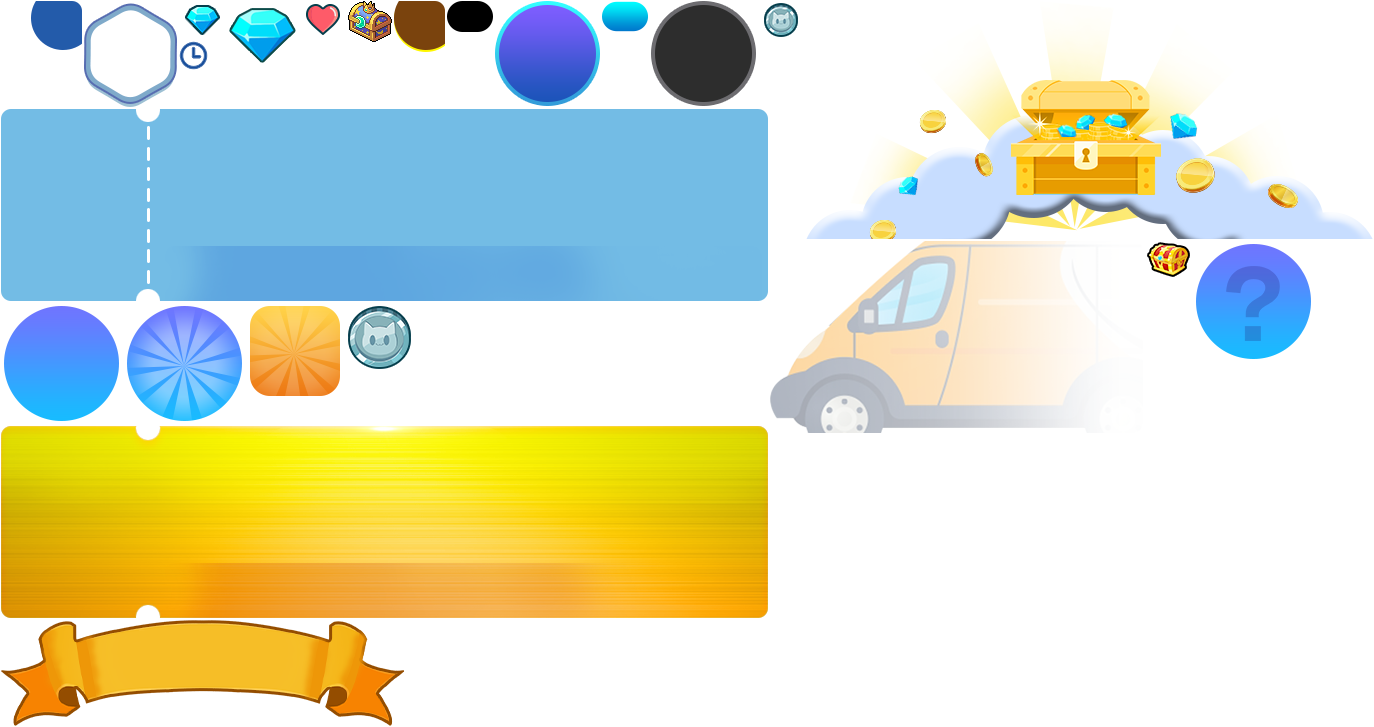
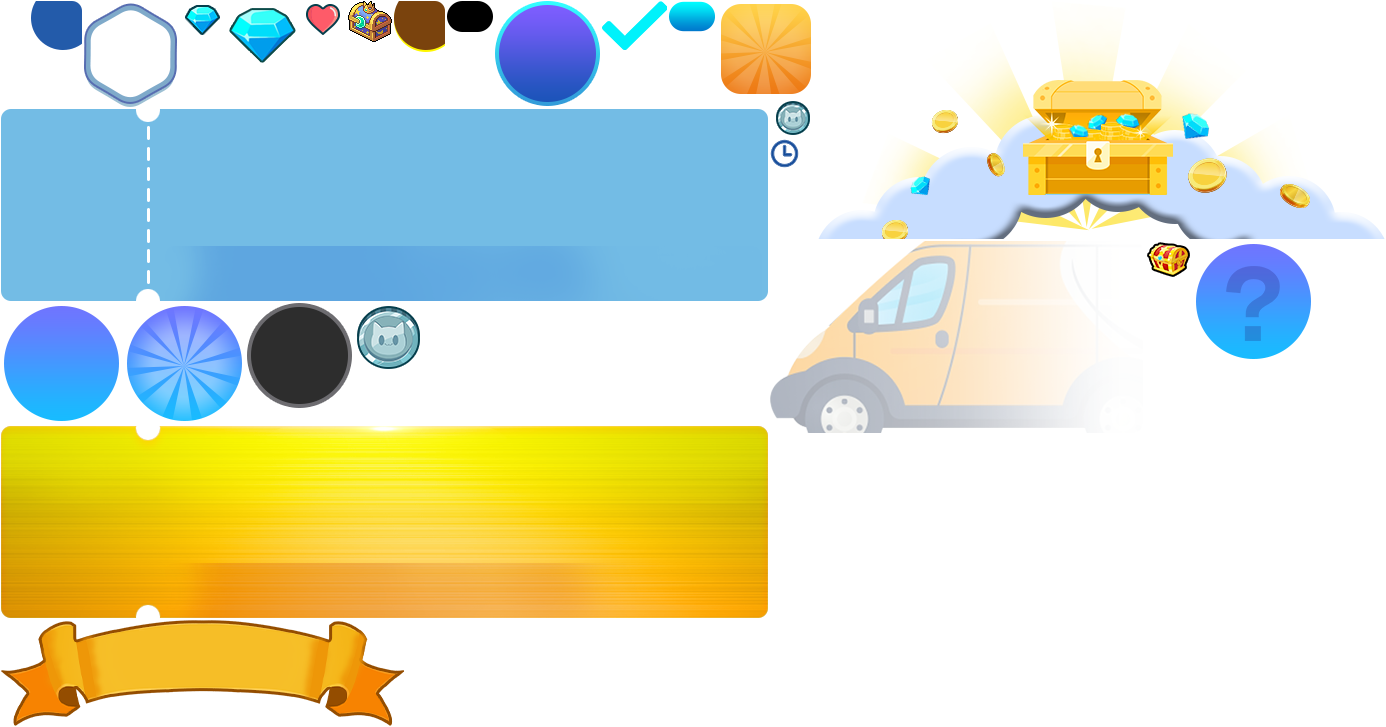
订单

diff --git a/src/ui/PicOrder/PicOrderPanel.ts b/src/ui/PicOrder/PicOrderPanel.ts
@@ -772,6 +772,8 @@ class OrderProgressItem extends Phaser.GameObjects.Container {
     private icon: DynamicImage;
     private text: Phaser.GameObjects.Text;
     private receiveHandler: Handler;
+    private finishIcon: Phaser.GameObjects.Image;
+    private balckgraphic: Phaser.GameObjects.Graphics;
     constructor(scene: Phaser.Scene, x: number, y: number, key: string, dpr: number) {
         super(scene, x, y);
         this.dpr = dpr;
@@ -781,7 +783,13 @@ class OrderProgressItem extends Phaser.GameObjects.Container {
         this.text = scene.make.text({ x: 0, y: this.bg.height * 0.5 + 10 * dpr, text: "10", style: { color: "#2154BD", fontSize: 12 * dpr, bold: true, fontFamily: Font.DEFULT_FONT } });
         this.text.setStroke("#2154BD", 4);
         this.text.setOrigin(0.5);
-        this.add([this.bg, this.icon, this.text]);
+        this.finishIcon = scene.make.image({ key, frame: "order_progress_ok" });
+        this.balckgraphic = scene.make.graphics(undefined, false);
+        this.balckgraphic.clear();
+        this.balckgraphic.fillStyle(0, 0.5);
+        this.balckgraphic.fillCircle(0, 0, 16 * dpr);
+        this.add([this.bg, this.icon, this.text, this.balckgraphic, this.finishIcon]);
+        this.finishIcon.visible = false;
     }
 
     public setItemData(data: op_client.IPKT_Progress, index: number, curvalue: number) {
@@ -796,11 +804,17 @@ class OrderProgressItem extends Phaser.GameObjects.Container {
                 this.icon.scaleX = this.icon.scaleY;
             });
         }
+        this.finishIcon.visible = false;
+        this.balckgraphic.visible = false;
         if (data.targetValue < curvalue) {
             this.bg.setFrameNormal("order_progress_finished", "order_progress_finished");
             if (!data.received)
                 this.bg.on(CoreUI.MouseEvent.Tap, this.onReceiveHandler, this);
-            else this.bg.off(CoreUI.MouseEvent.Tap, this.onReceiveHandler, this);
+            else {
+                this.finishIcon.visible = true;
+                this.balckgraphic.visible = true;
+                this.bg.off(CoreUI.MouseEvent.Tap, this.onReceiveHandler, this);
+            }
         } else {
             this.bg.setFrameNormal("order_progress_unfinished", "order_progress_unfinished");
             this.bg.off(CoreUI.MouseEvent.Tap, this.onReceiveHandler, this);
